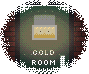
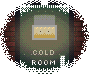
Shrink the Blue Lantern regular to ~72px (#229)
The smoker outside the Blue Lantern was 85px (hat to shoes), taller than
Micah (~82px), even though he stands further back. Now he is ~72px, a
head shorter than Micah.

## Changes
- `tools/art/expansion_act1.py`: the regular keeps his drawing layout.
`regular_y` / `_SquashedDraw` move the head, hat and collar down 12px
unchanged and compress the body from the shoulders to the shoes. Smoke
puffs, glows and palette-pinning crops go through the same mapping.
- Regenerated `blue_lantern_front*.png`. The background changes slightly
because the quantising palette changed.
- `blue_lantern_front.tscn`: Regular sprite origin moved to (424, 104).
The look/talk hotspot is now 28x74 at (442, 140).

## Suites run locally
- art (`py -m unittest discover -s tests\art`): 134 passed
- `dotnet build` + unit: 320 passed
- walk: 1745 checks passed

diff --git a/tools/art/expansion_act1.py b/tools/art/expansion_act1.py
@@ -932,13 +932,48 @@ def _puff(d, cx, cy, r):
                 d.point((x, y), fill=thin)
 
 
+# The regular is drawn below in a tall 85px layout (hat crown at y=92, shoes at BASE) and squashed on the way to the
+# canvas to about 72px, a head shorter than Micah by the door: the head, hat and collar keep their size and drop
+# REGULAR_DROP pixels, and the shoulders-to-shoes body is compressed to fit.
+REGULAR_NECK = 116
+REGULAR_DROP = 12
+
+
+def regular_y(y):
+    """Where a y of the regular's drawing layout lands on the canvas."""
+    if y <= REGULAR_NECK:
+        return y + REGULAR_DROP
+    top = REGULAR_NECK + REGULAR_DROP
+    return top + round((y - REGULAR_NECK) * (BASE - top) / (BASE - REGULAR_NECK))
+
+
+class _SquashedDraw:
+    """An ImageDraw whose y coordinates pass through regular_y."""
+
+    def __init__(self, draw):
+        self._d = draw
+
+    @staticmethod
+    def _map(xy):
+        if isinstance(xy, tuple):
+            return (xy[0], regular_y(xy[1]))
+        if xy and isinstance(xy[0], tuple):
+            return [(x, regular_y(y)) for x, y in xy]
+        return [v if k % 2 == 0 else regular_y(v) for k, v in enumerate(xy)]
+
+    def __getattr__(self, name):
+        method = getattr(self._d, name)
+        return lambda xy, *args, **kwargs: method(self._map(xy), *args, **kwargs)
+
+
 def regular(img, pose=0):
     """A member waiting by the wall in a dark overcoat, fedora tipped low so his eyes look out of the brim's shadow,
     a blue carnation bright in his buttonhole and a cigarette in his hand. Painted on its own layer (the game animates
     the smoking); returns the figure's mask."""
     p = SMOKE_POSES[pose]
     fig = Image.new("RGBA", img.size, (0, 0, 0, 0))
-    d = ImageDraw.Draw(fig)
+    raw = ImageDraw.Draw(fig)
+    d = _SquashedDraw(raw)
     cx = REGULAR_X
     coat, coat_d, coat_l = hx("2c2a34"), hx("18171e"), hx("4a4856")
     skin, skin_d = hx("8a6a58"), hx("4a3830")
@@ -1074,15 +1109,16 @@ def regular(img, pose=0):
     d.line([(cx + 4, 104), (cx + 7, 102)], fill=hat)
     if p["puff"]:
         for px_, py_, r in p["puff"]:
-            _puff(d, cx + px_, py_, r)
+            _puff(raw, cx + px_, regular_y(py_), r)
     img.paste(fig, (0, 0), fig)
     mask = fig.getchannel("A")
-    light(img, "ellipse", [cx - 12, 115, cx - 1, 129], hx("4a80f0"), 0.3, 3)
+    light(img, "ellipse", _SquashedDraw._map([cx - 12, 115, cx - 1, 129]), hx("4a80f0"), 0.3, 3)
     if p["hand"][1] > 130:
         tx, ty = hx_ - 5, hy + 2
     else:
         tx, ty = hx_ - 3, hy + 1
-    light(img, "ellipse", [tx - 3, ty - 3, tx + 3, ty + 2], hx("ff9040"), 0.15 + 0.15 * p["ember"], 1)
+    light(img, "ellipse", _SquashedDraw._map([tx - 3, ty - 3, tx + 3, ty + 2]), hx("ff9040"),
+          0.15 + 0.15 * p["ember"], 1)
     return mask
 
 
@@ -1250,10 +1286,12 @@ def build_florist():
     src = Image.blend(variants["base"], variants["grille"], 0.5)
     src.paste(frames[0][0].crop(box), box[:2])
     cx = REGULAR_X
-    face = frames[0][0].crop((cx - 6, 104, cx + 6, 114)).quantize(6, method=Image.Quantize.MEDIANCUT)
+    face = frames[0][0].crop((cx - 6, regular_y(104), cx + 6, regular_y(114))).quantize(
+        6, method=Image.Quantize.MEDIANCUT)
     skin = [tuple(face.getpalette()[i * 3:i * 3 + 3]) for i in range(6)]
     # likewise the fedora's few greys, so its lit flank, rim and crease survive as separate tones
-    hat = frames[0][0].crop((cx - 10, 91, cx + 11, 107)).quantize(6, method=Image.Quantize.MEDIANCUT)
+    hat = frames[0][0].crop((cx - 10, regular_y(91), cx + 11, regular_y(107))).quantize(
+        6, method=Image.Quantize.MEDIANCUT)
     skin += [tuple(hat.getpalette()[i * 3:i * 3 + 3]) for i in range(6)]
     pal = (palette_of(src, 128) + list(CARNATION) + list(EMBER) + [ROSE, mul(ROSE, 0.62), mul(ROSE, 0.45),
                                                                     hx("ccc3a0")] + skin)
